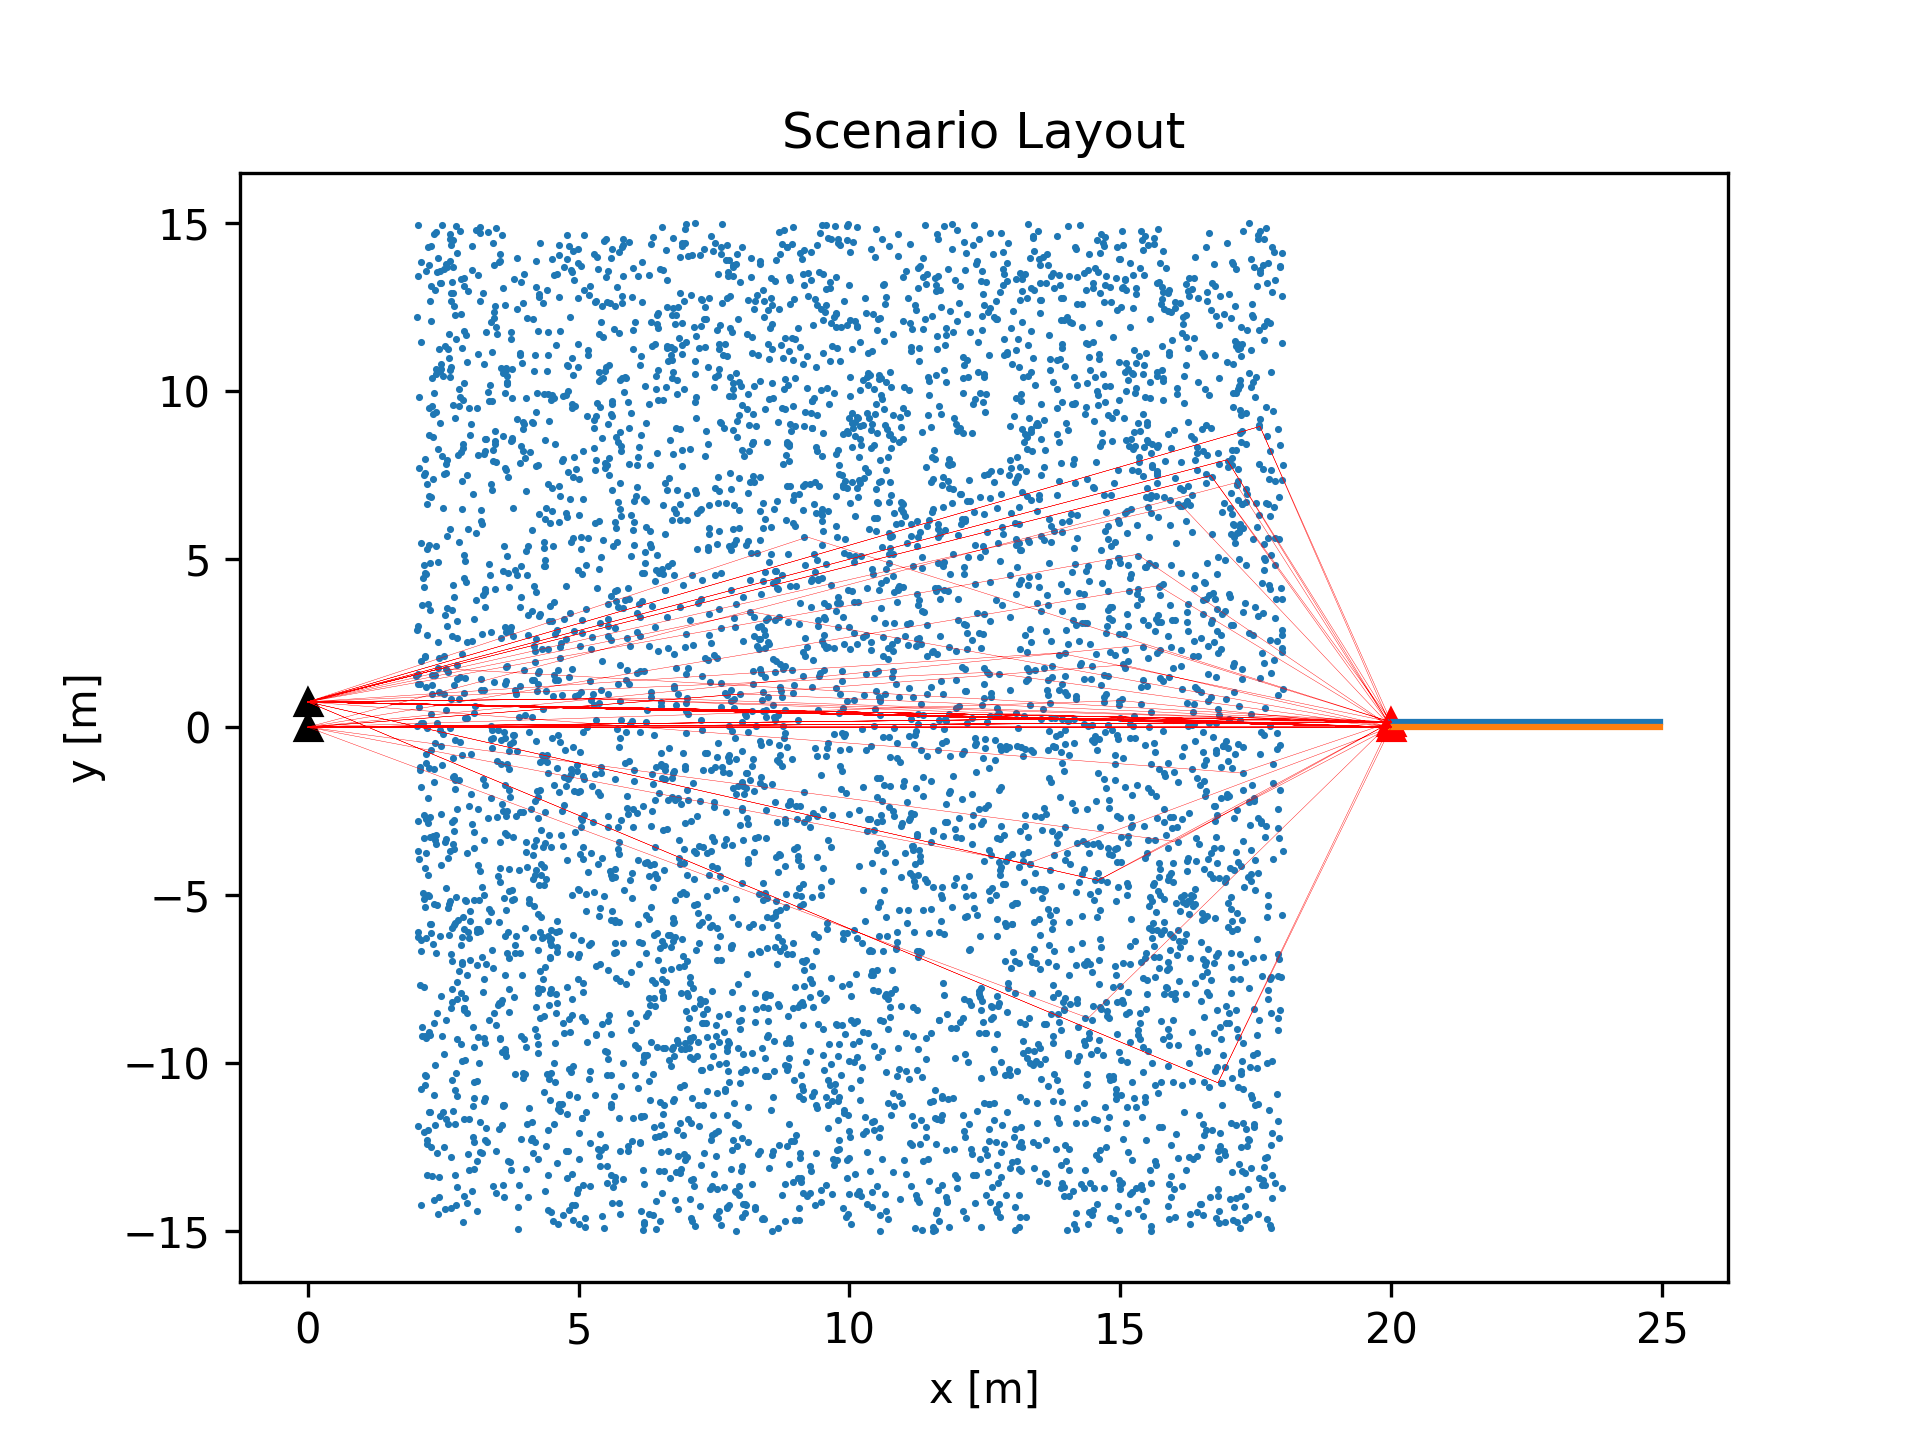
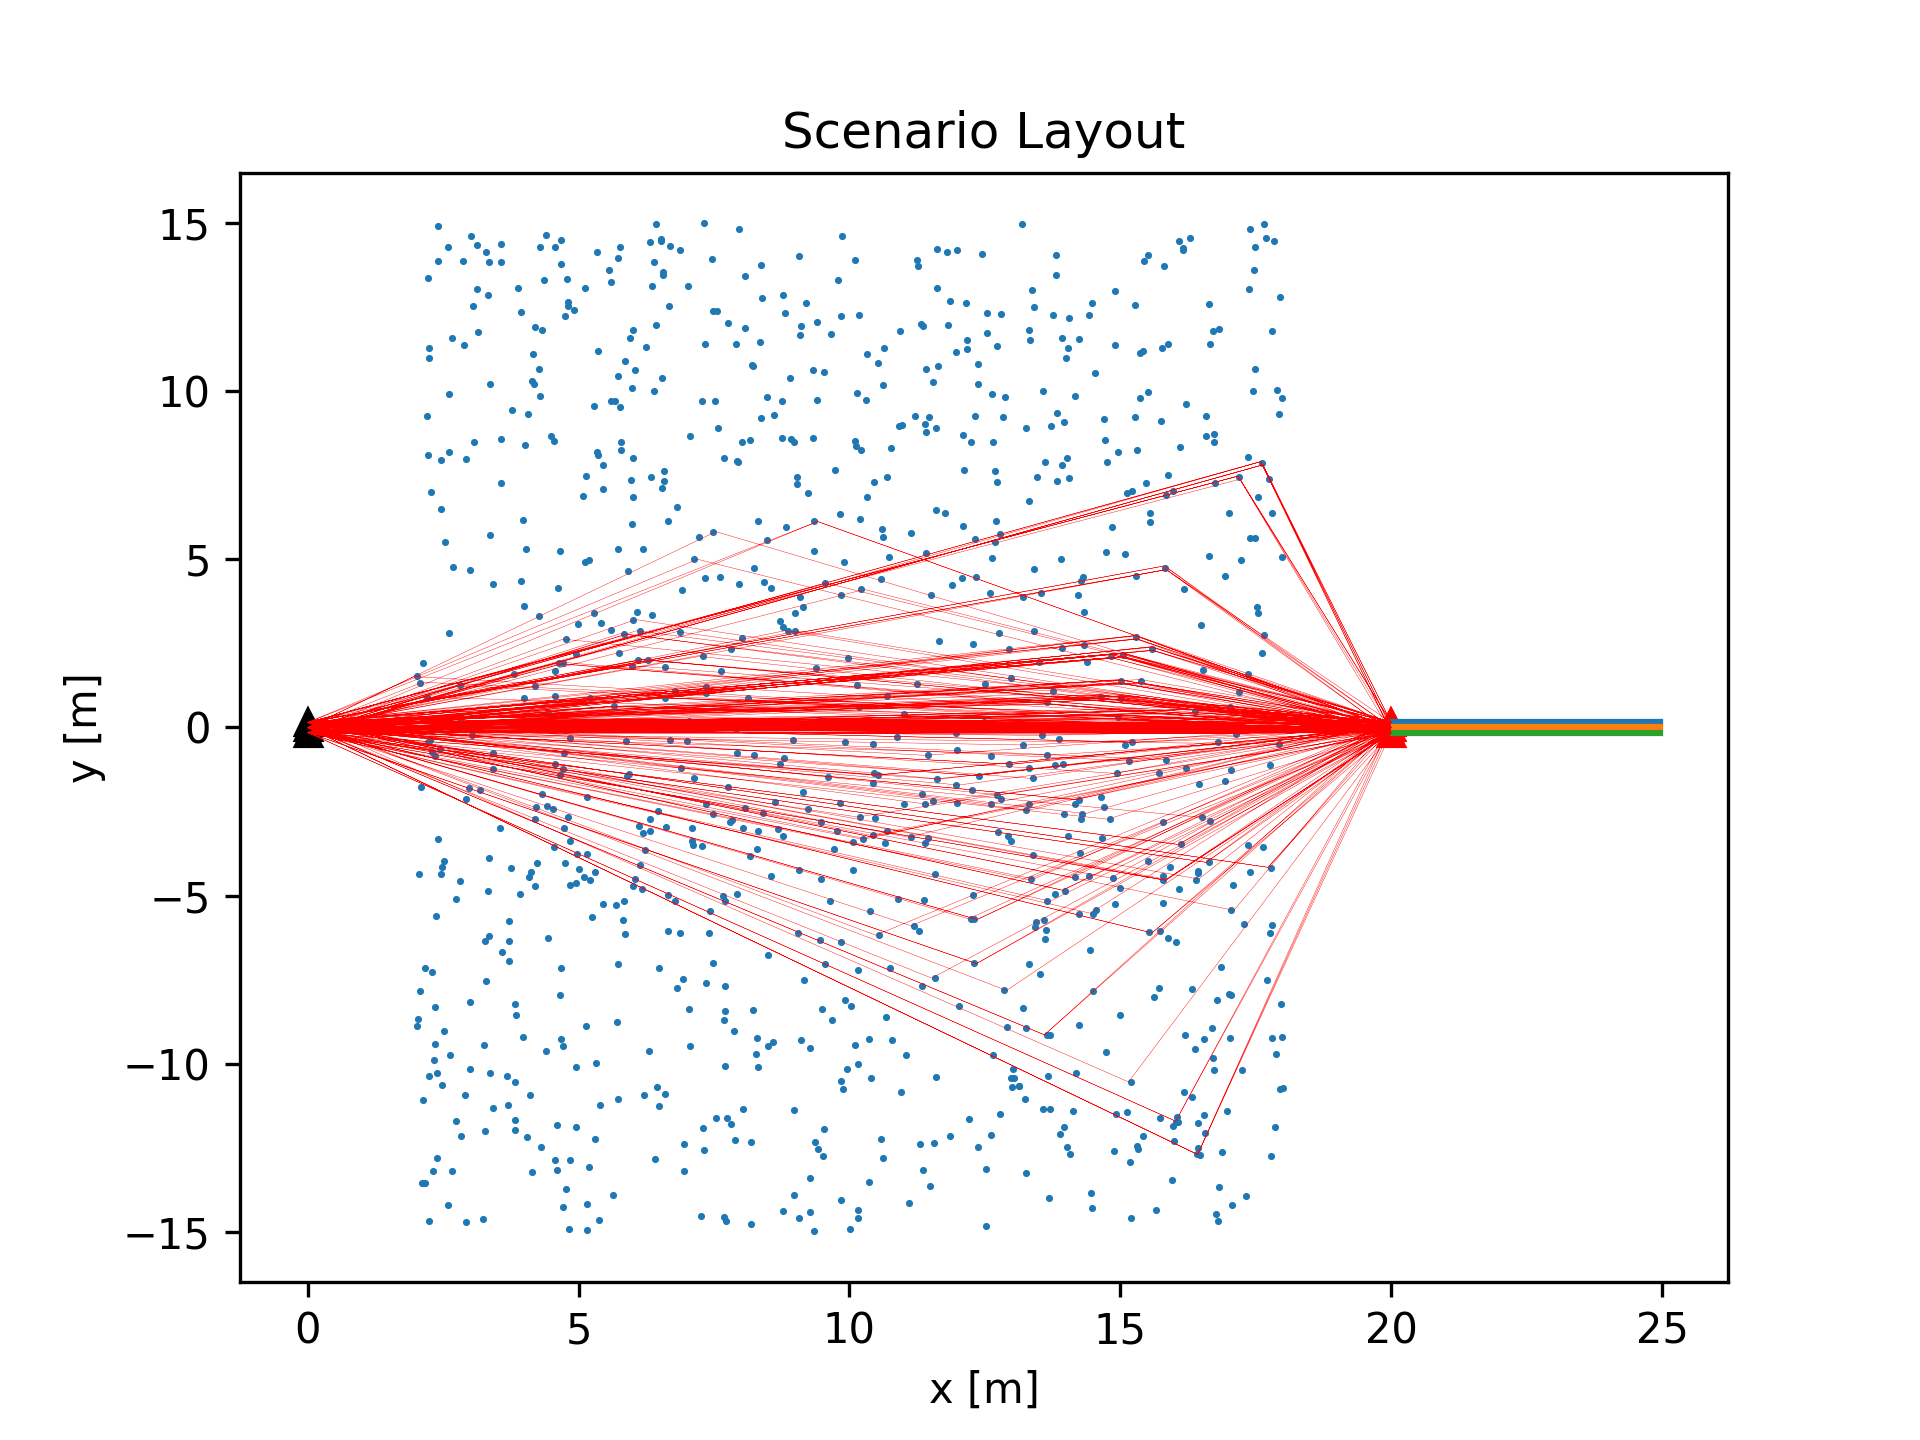
Update on Transreceivers

Changed region(s): [[0.1562, 0.1562, 0.875, 0.875]]

diff --git a/src/Ray_Tracer.py b/src/Ray_Tracer.py
@@ -104,15 +104,15 @@ for t in tqdm(range (N_Tx)):
 # Check for Intersection Point between Scatterer - Receiver
 lx=[]
 ly=[]
-# Signal's complex envelope:
-ray = []
 bounce = False 
 Nsnapshots = parameters.Nsamples 
-# Channel Matrrix:
+# Channel Matrix H:
 H = np.zeros((Nsnapshots,N_Tx,N_Rx),dtype=complex)
 for ts in tqdm(range(Nsnapshots)):
     for t in range (N_Tx):
         for r in range (N_Rx):
+            # Signal's complex envelope:
+            ray = []
             for i in range (len(P[t].data)):
                 xx,yy = rays.intersection(P[t].data[i].get(),Br[t].data[i].get(),[rx.C[r,ts,0],rx.C[r,ts,1]],rx.r,bounce)
                 if (xx!=False):
@@ -147,16 +147,18 @@ timeaxis = np.zeros(Nsnapshots)
 for i in range (Nsnapshots):
     timeaxis[i] = parameters.ts*i
 plot1 = plt.figure(1)
-plt.plot(timeaxis,10*np.log(eigens[0,:]),'k') 
+plt.plot(timeaxis,10*np.log(eigens[0,:]),'b') 
 plt.plot(timeaxis,10*np.log(eigens[1,:]),'r')
-plt.title('Eigenvalues with time')
+plt.plot(timeaxis,10*np.log(eigens[2,:]),'y')
+
+plt.title('Eigenvalues versus time')
 plt.xlabel('Time [s]')
 plt.ylabel('Eigenvalues [dB]')
 plt.grid()
-
+plt.savefig("Eigenvalues1.png",dpi=300)
 SNR = 20                                                                        # Signal to Noise Ratio in [dB]
 snr = 10**(SNR/10)                                                              # Linear scale SNR
-CSISO = np.log2(1+snr*H[:,1,1])                                                 # SISO Ergodic Capacity using only the first channel
+CSISO = np.log2(1+snr*(H[:,1,1]**2))                                                 # SISO Ergodic Capacity using only the first channel
 CMIMO = sum(np.log2(1+(snr/Neigens)*eigens))                                    # MIMO Capacity 
 
 plot2 = plt.figure(2)
@@ -165,13 +167,11 @@ first_legend = plt.legend(handles=[CapS], loc='lower right')
 ax = plt.gca().add_artist(first_legend)
 CapM, = plt.plot(timeaxis,CMIMO,label='MIMO Capacity')
 plt.legend(handles=[CapM], loc='upper right')
-plt.title('Channel Capacity with time')
+plt.title('Channel Capacity versus time')
 plt.xlabel('Time [s]')
 plt.ylabel('Capacity [bits/sec/Hz]')
 plt.grid()
-
-
-plt.show()
+plt.savefig("Capacity1.png",dpi=300)
 
 
 plt.show()

diff --git a/src/Transceivers.py b/src/Transceivers.py
@@ -16,8 +16,12 @@
    * Function elementPositionsCalc()
      Allocate the array's antennas (only along y axis) in the 3D cartesian space for the Tx/Rx, 
      in respect to the antenna spacing and Tx/Rx initial position.
-        elementPositions: a vector [x,y,z] which contains the position of each array's antenna allocated along y axis
-
+        elementPositions: a vector [x,y] which contains the position of each array's antenna allocated along y axis
+    
+   * Function Track()
+     Calculates the MT's track.
+        track: a vector [x,y] which contains the positions of the MT along its track for each antenna element
+    
 """
 
 import numpy as np
@@ -52,8 +56,7 @@ class Transceiver():
         if (self.mode == 1):
 
           self.r = (2*(self.lamda/2)**2)/self.lamda
-          # self.r = 11
-          # self.C = self.elementPositions
+          
     
     def Track(self):
     

diff --git a/src/config.py b/src/config.py
@@ -13,7 +13,7 @@ lamda = parameters.lamda
 
 # Transceivers: Α Transmitter with 1 antenna element which is located to the coodinates origin
 Tmode = 0
-TnAntennas = 2
+TnAntennas = 3
 Tspacing = lamda
 Tposition = [0,0,0]
 
@@ -23,19 +23,19 @@ type = 0
 length = 1/2
 I0 = 1
 mode = 0
-thetaStep = 0.02
+thetaStep = 0.1
 atheta = np.arange((-np.pi/2)+1e-10,np.pi/2,thetaStep*np.pi/180.0)
 r = (2*(lamda/2)**2)/lamda
 phi = 0
 
 # Transceivers: Α Receiver with 1 antenna element which is located to the coodinates origin
 Rmode = 1
-RnAntennas = 2
+RnAntennas = 3
 Rspacing = lamda
 Rposition = [20,0,0]
 
-# Circular_Scatterers: 100 Circular Scatterers of radius=0.05 and Scattering Coefficient=-1
-NSC = 3000
+# Circular_Scatterers: 1000 Circular Scatterers of radius=0.05 and Scattering Coefficient=-1
+NSC = 1000
 radius = 0.05
 n = -1
 

diff --git a/Vis/Visualization.py b/Vis/Visualization.py
@@ -29,7 +29,7 @@ theta = fh.variables['theta'][:]
 P = fh.variables['P'][:]
 plot2 = plt.figure(2)
 plt.plot(theta*180/np.pi,P)
-plt.title('Radiated Power with Elevation Angle')
+plt.title('Radiated Power versus Elevation Angle')
 plt.xlabel('Theta [deg°]')
 plt.ylabel('P [W]')
 plt.grid()
